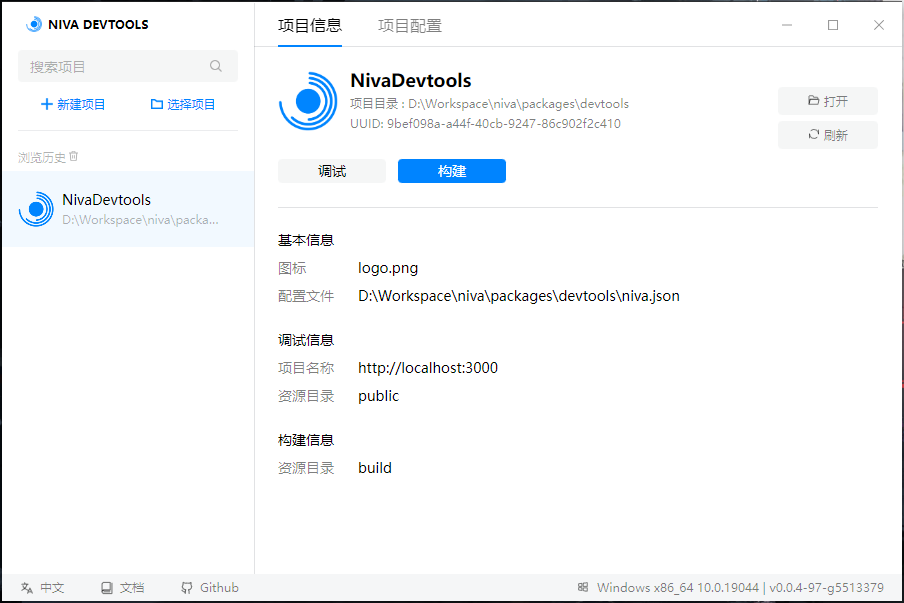
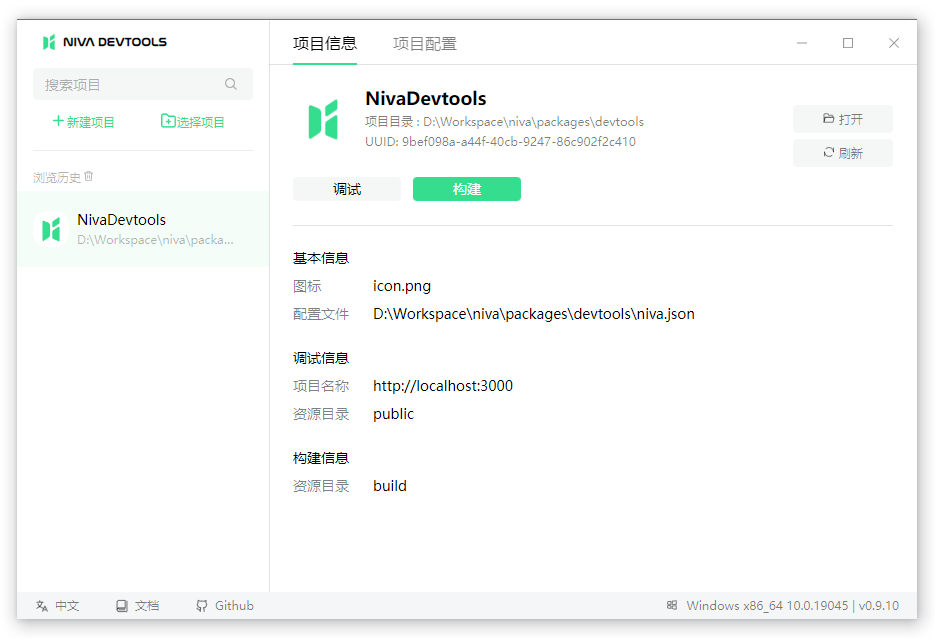
doc: update README.md

diff --git a/README.md b/README.md
@@ -54,6 +54,10 @@ Niva 提供了丰富的 API, 如 clipboard, dialog, extra, fs, http, monitor, os
 - [ ] Niva 2.0
   - [ ] 对 Window10 低版本增加 [miniblink](https://github.com/weolar/miniblink49) 支持，解决低版本 Windows 对 Webview2 支持不完善的问题。
 
+## Acknowledgments
+
+[@wen-gang(晓港)](https://github.com/wen-gang)  - 感谢晓港帮 Niva 设计了新的 Logo
+
 ## Contributors
 
 ![Contributors](https://contrib.rocks/image?repo=bramblex/niva)
